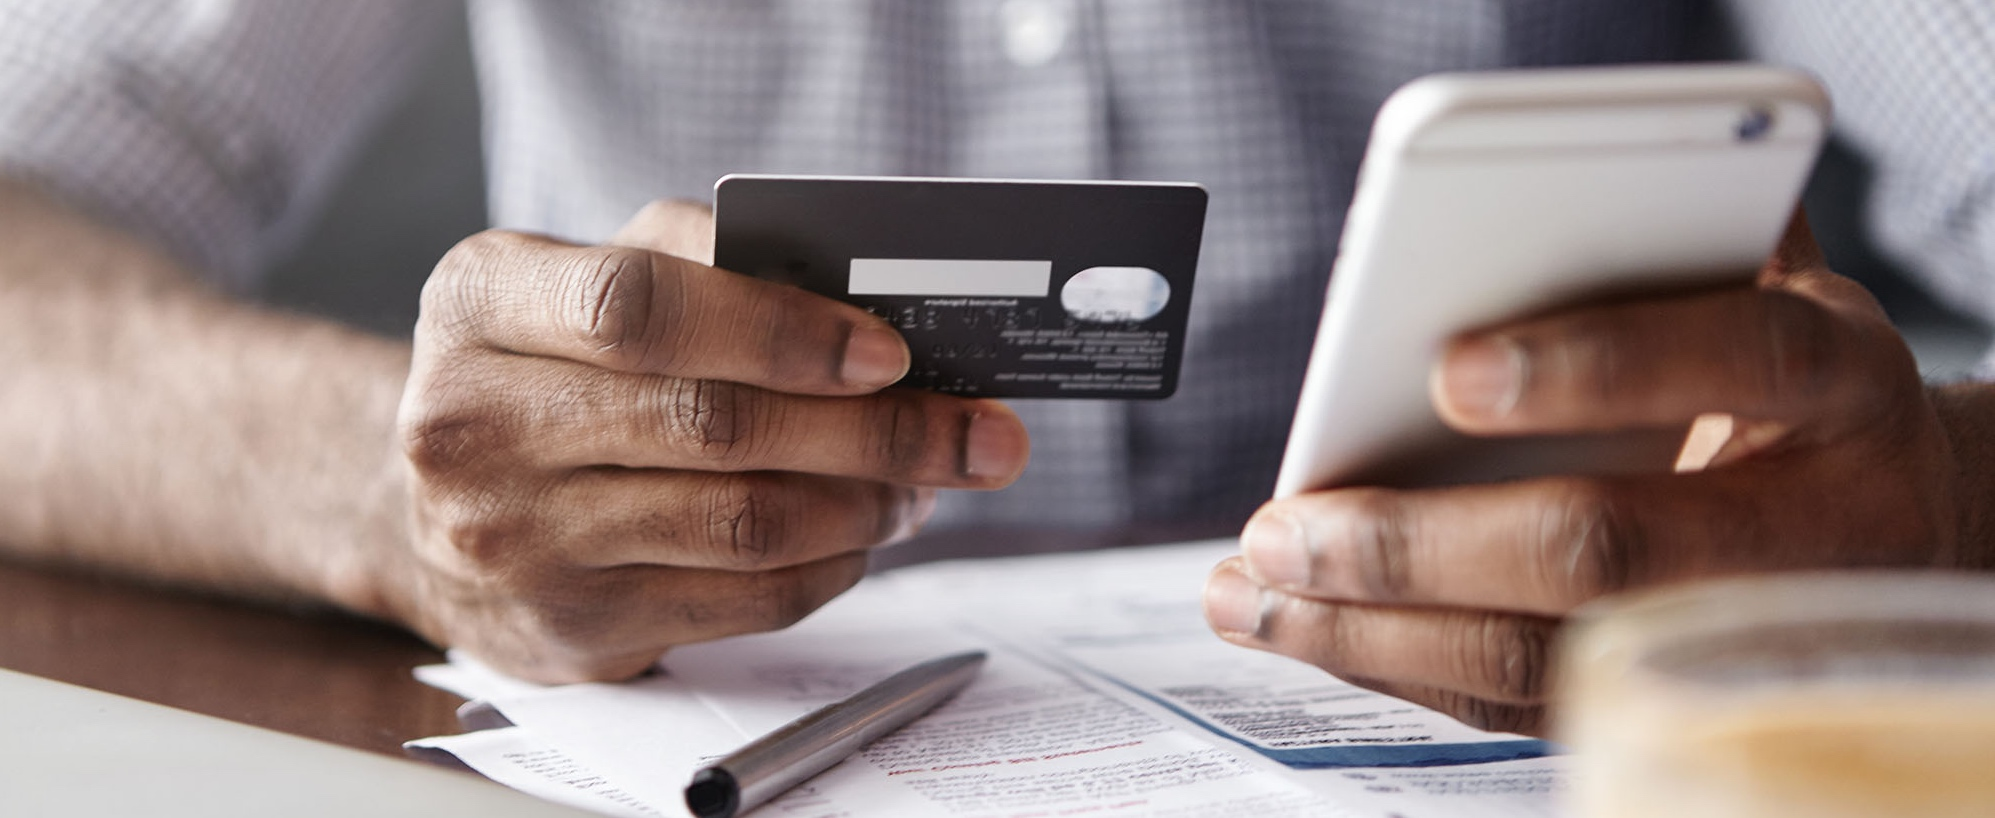
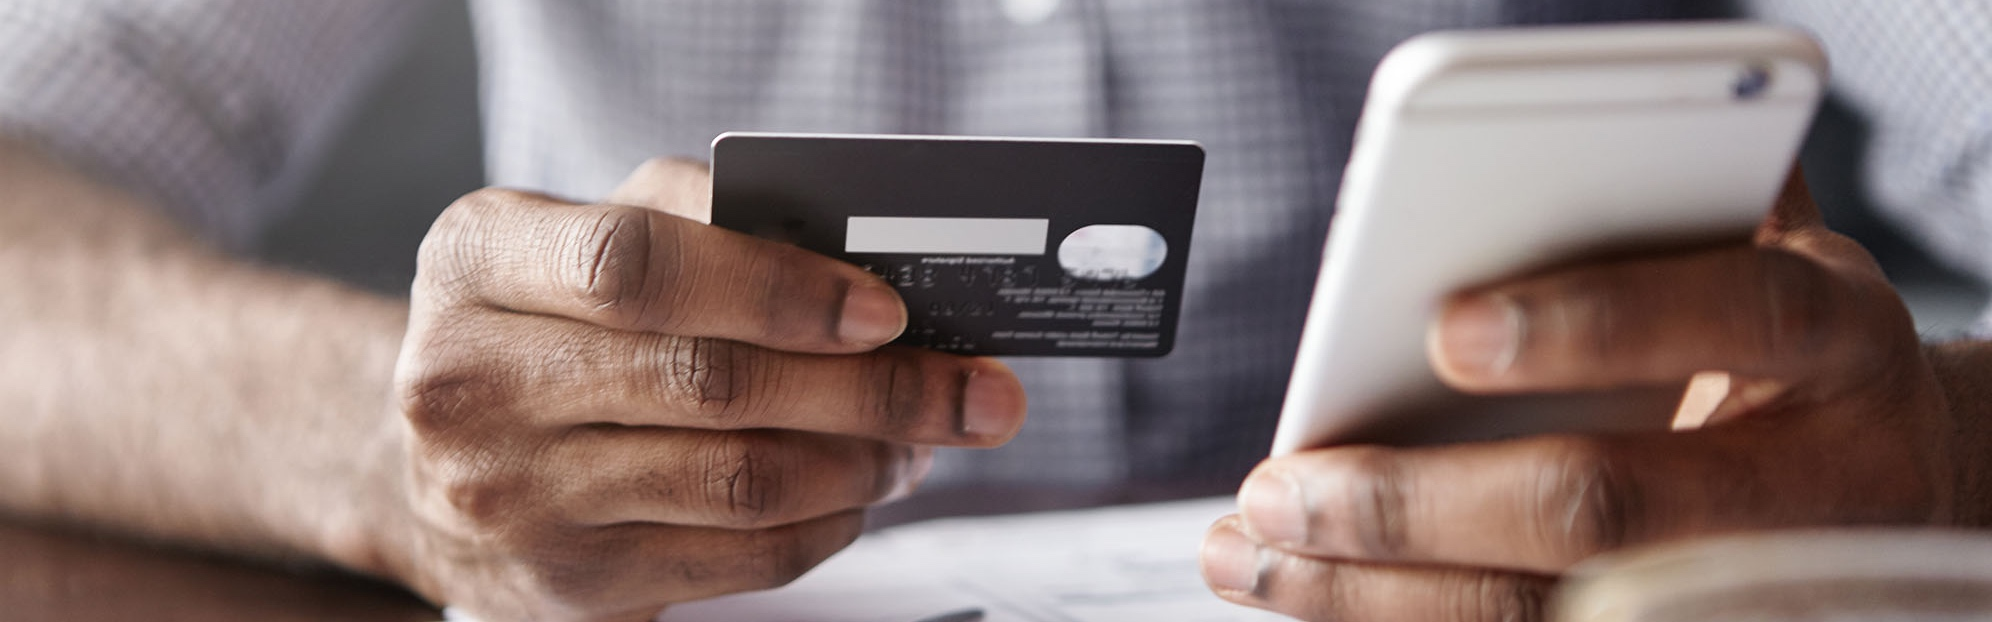
fix image alignment

diff --git a/static/css/styles.css b/static/css/styles.css
@@ -163,7 +163,6 @@ body {
     padding: 20px;
 }
 
-/* Existing styles */
 .savings-intro {
     text-align: center;
     margin-top: -0px; 
@@ -219,7 +218,7 @@ body {
 .loans-cover {
     background-size: cover;
     background-position: center;
-    height: 400px; /* Adjust the height as needed */
+    height: 400px; 
     display: flex;
     align-items: center;
     justify-content: center;
@@ -227,7 +226,7 @@ body {
 }
 
 .cover-text {
-    background-color: rgba(0, 0, 0, 0.5); /* Semi-transparent overlay for text readability */
+    background-color: rgba(0, 0, 0, 0.5); 
     padding: 20px;
 }
 
@@ -277,23 +276,14 @@ body {
     text-align: center;
 }
 
-.cover-photo img {
+.cover-photo_bp img {
     max-width: 100%;
-    height: auto;
-
-
-
-    background-size: cover;
-    background-position: center;
-    display: flex;
-    align-items: center;
-    justify-content: center;
-    color: white;
-    
+    height: auto;  
+    margin-top: 5px;  
 }
 
 .services {
-    margin-top: 50px;
+    margin-top: 5px;
 }
 
 .services-row {

diff --git a/templates/index.html b/templates/index.html
@@ -17,7 +17,7 @@
         <a href="{{ url_for('main.calculator') }}">Loans/Savings Calculator</a>
     </div>
     <div class="service-item">
-        <img src="/static/images/FINANCIAL.2.jpg6.jpg" alt="Loan">
+        <img src="/static/images/FINANCIAL.2.jpg5.jpg" alt="Loan">
         <a href="{{ url_for('main.loans') }}">Get a Loan</a>
     </div>
     <div class="service-item">

diff --git a/templates/bills_payment.html b/templates/bills_payment.html
@@ -6,7 +6,7 @@
     
 <div class="content-wrapper">
     <!-- Cover Photo Section -->
-    <div class="cover-photo">
+    <div class="cover-photo_bp">
         <img src="/static/images/online_bills.jpg" alt="Cover Photo">
     </div>
 
